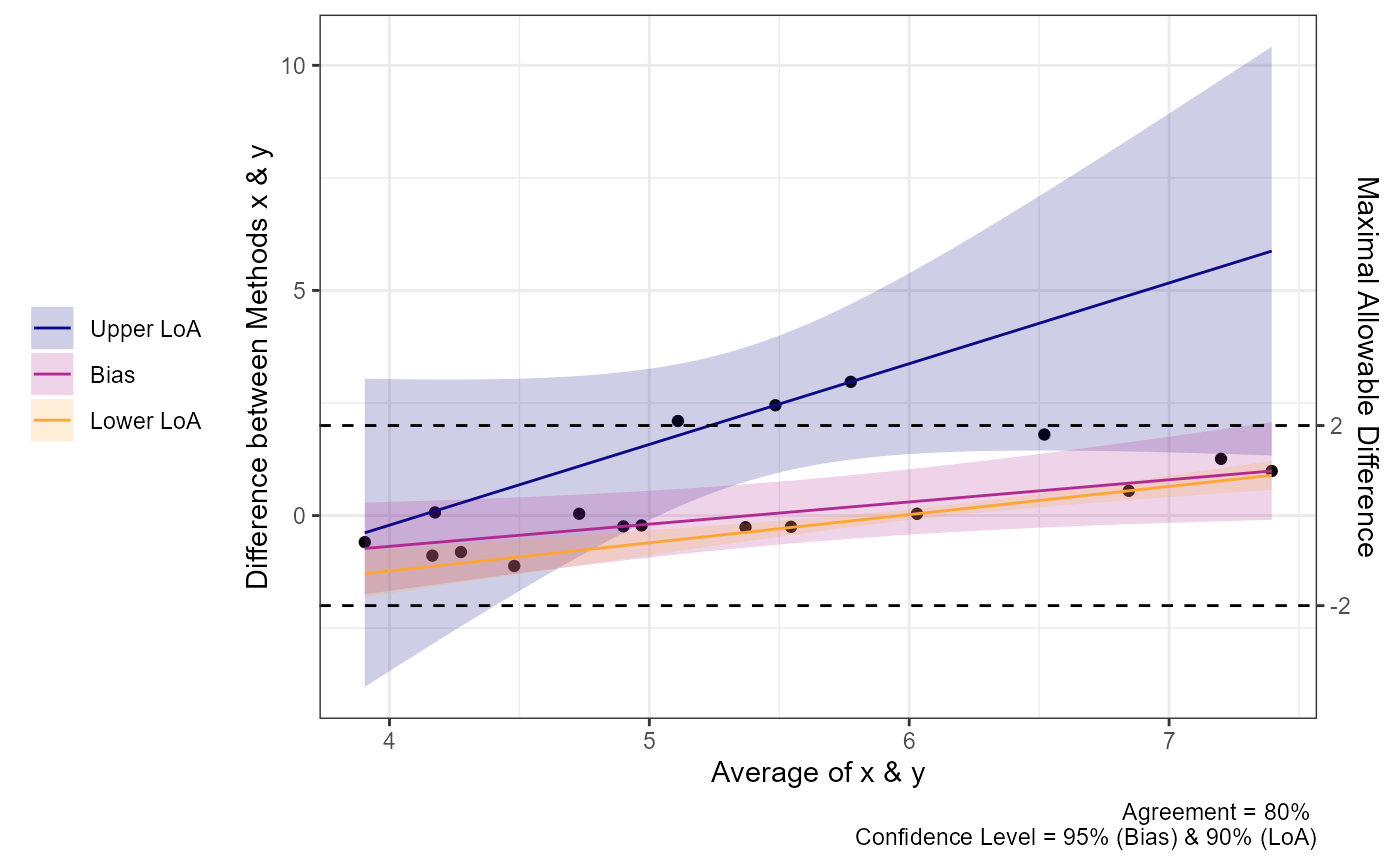
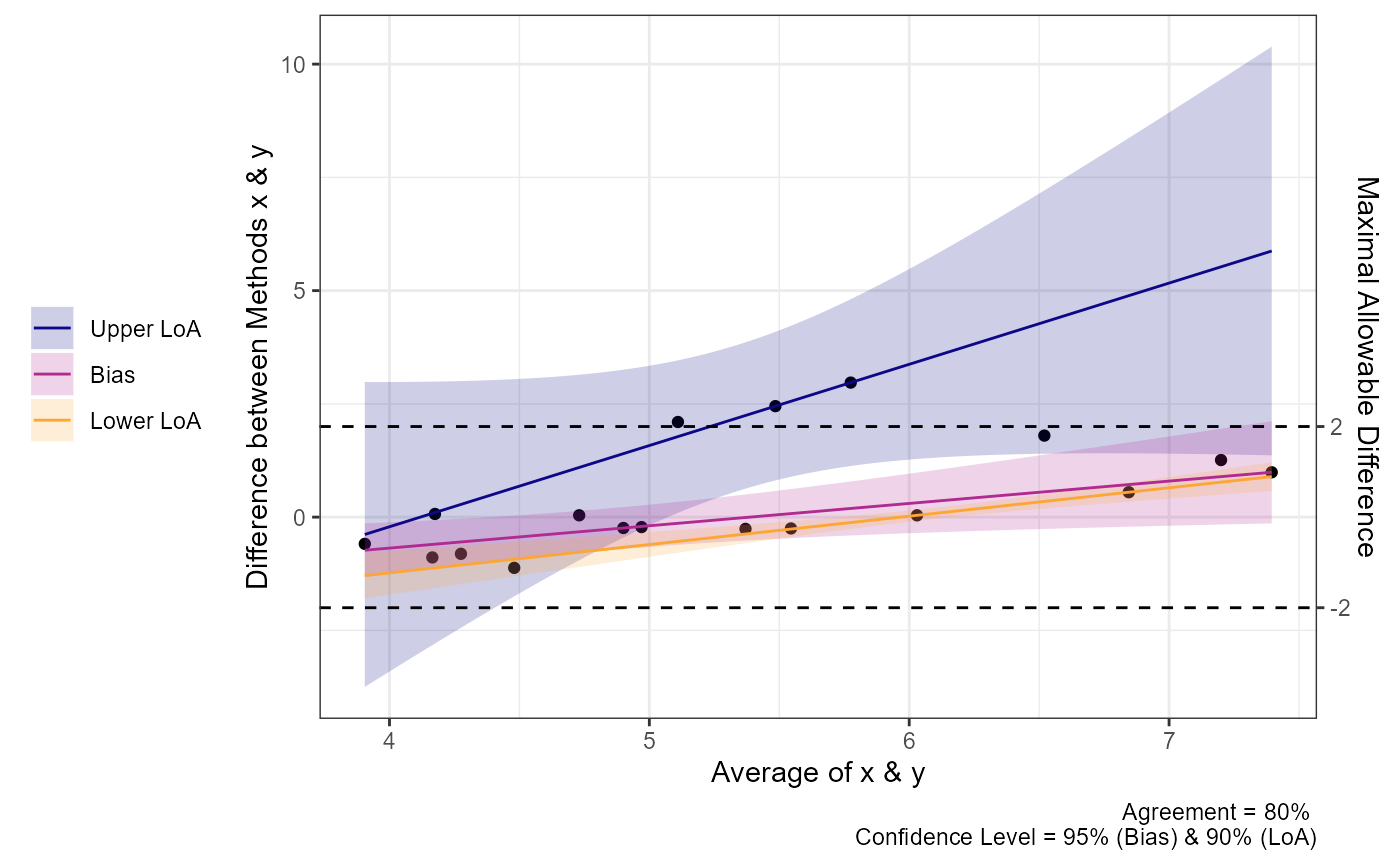
Fix typos in documentation

diff --git a/docs/articles/agreement_analysis.html b/docs/articles/agreement_analysis.html
@@ -650,9 +650,9 @@ are no longer symmetric around the bias estimate.</p>
 <span><span class="co">#&gt; </span></span>
 <span><span class="co">#&gt; ###- Quantile Limits of Agreement (LoA) -###</span></span>
 <span><span class="co">#&gt;           Estimate Lower CI Upper CI CI Level</span></span>
-<span><span class="co">#&gt; Lower LoA    -0.89   -1.361  -0.4194     0.90</span></span>
-<span><span class="co">#&gt; Bias          0.04   -0.620   0.7000     0.95</span></span>
-<span><span class="co">#&gt; Upper LoA     2.45    1.369   3.5314     0.90</span></span>
+<span><span class="co">#&gt; Lower LoA    -0.89  -1.3696  -0.4104     0.90</span></span>
+<span><span class="co">#&gt; Bias          0.04  -0.6122   0.6922     0.95</span></span>
+<span><span class="co">#&gt; Upper LoA     2.45   1.3440   3.5560     0.90</span></span>
 <span></span>
 <span><span class="fu"><a href="https://rdrr.io/r/graphics/plot.default.html" class="external-link">plot</a></span><span class="op">(</span><span class="va">a1</span><span class="op">)</span></span></code></pre></div>
 <p><img src="agreement_analysis_files/figure-html/unnamed-chunk-13-1.png" width="700"></p>
@@ -676,15 +676,15 @@ agreement does not.</p>
 <span><span class="co">#&gt; </span></span>
 <span><span class="co">#&gt; ###- Quantile Limits of Agreement (LoA) -###</span></span>
 <span><span class="co">#&gt;                  Estimate Lower CI Upper CI CI Level</span></span>
-<span><span class="co">#&gt; Lower LoA @ 3.9  -1.28975  -1.7215  -0.8580     0.90</span></span>
-<span><span class="co">#&gt; Lower LoA @ 5.24 -0.45436  -0.6518  -0.2569     0.90</span></span>
-<span><span class="co">#&gt; Lower LoA @ 7.4   0.89417   0.6230   1.1653     0.90</span></span>
-<span><span class="co">#&gt; Bias @ 3.9       -0.73052  -1.3436  -0.1174     0.95</span></span>
-<span><span class="co">#&gt; Bias @ 5.24      -0.07238  -0.6154   0.4706     0.95</span></span>
-<span><span class="co">#&gt; Bias @ 7.4        0.99000  -0.2520   2.2320     0.95</span></span>
-<span><span class="co">#&gt; Upper LoA @ 3.9  -0.38310  -2.9289   2.1627     0.90</span></span>
-<span><span class="co">#&gt; Upper LoA @ 5.24  2.01069   1.0372   2.9842     0.90</span></span>
-<span><span class="co">#&gt; Upper LoA @ 7.4   5.87483   2.2135   9.5362     0.90</span></span>
+<span><span class="co">#&gt; Lower LoA @ 3.9  -1.28975  -1.7352  -0.8443     0.90</span></span>
+<span><span class="co">#&gt; Lower LoA @ 5.24 -0.45436  -0.6427  -0.2660     0.90</span></span>
+<span><span class="co">#&gt; Lower LoA @ 7.4   0.89417   0.5639   1.2245     0.90</span></span>
+<span><span class="co">#&gt; Bias @ 3.9       -0.73052  -1.8345   0.3734     0.95</span></span>
+<span><span class="co">#&gt; Bias @ 5.24      -0.07238  -0.8495   0.7047     0.95</span></span>
+<span><span class="co">#&gt; Bias @ 7.4        0.99000  -0.3054   2.2854     0.95</span></span>
+<span><span class="co">#&gt; Upper LoA @ 3.9  -0.38310  -2.7722   2.0060     0.90</span></span>
+<span><span class="co">#&gt; Upper LoA @ 5.24  2.01069   0.7716   3.2497     0.90</span></span>
+<span><span class="co">#&gt; Upper LoA @ 7.4   5.87483   2.3488   9.4008     0.90</span></span>
 <span></span>
 <span><span class="fu"><a href="https://rdrr.io/r/graphics/plot.default.html" class="external-link">plot</a></span><span class="op">(</span><span class="va">a1</span><span class="op">)</span></span></code></pre></div>
 <p><img src="agreement_analysis_files/figure-html/unnamed-chunk-14-1.png" width="700"></p>

diff --git a/docs/index.html b/docs/index.html
@@ -5,14 +5,14 @@
 <meta charset="utf-8">
 <meta http-equiv="X-UA-Compatible" content="IE=edge">
 <meta name="viewport" content="width=device-width, initial-scale=1.0">
-<title>The SimplyAgre R package • SimplyAgree</title>
+<title>The SimplyAgree R package • SimplyAgree</title>
 <!-- jquery --><script src="https://cdnjs.cloudflare.com/ajax/libs/jquery/3.4.1/jquery.min.js" integrity="sha256-CSXorXvZcTkaix6Yvo6HppcZGetbYMGWSFlBw8HfCJo=" crossorigin="anonymous"></script><!-- Bootstrap --><link rel="stylesheet" href="https://cdnjs.cloudflare.com/ajax/libs/twitter-bootstrap/3.4.1/css/bootstrap.min.css" integrity="sha256-bZLfwXAP04zRMK2BjiO8iu9pf4FbLqX6zitd+tIvLhE=" crossorigin="anonymous">
 <script src="https://cdnjs.cloudflare.com/ajax/libs/twitter-bootstrap/3.4.1/js/bootstrap.min.js" integrity="sha256-nuL8/2cJ5NDSSwnKD8VqreErSWHtnEP9E7AySL+1ev4=" crossorigin="anonymous"></script><!-- bootstrap-toc --><link rel="stylesheet" href="bootstrap-toc.css">
 <script src="bootstrap-toc.js"></script><!-- Font Awesome icons --><link rel="stylesheet" href="https://cdnjs.cloudflare.com/ajax/libs/font-awesome/5.12.1/css/all.min.css" integrity="sha256-mmgLkCYLUQbXn0B1SRqzHar6dCnv9oZFPEC1g1cwlkk=" crossorigin="anonymous">
 <link rel="stylesheet" href="https://cdnjs.cloudflare.com/ajax/libs/font-awesome/5.12.1/css/v4-shims.min.css" integrity="sha256-wZjR52fzng1pJHwx4aV2AO3yyTOXrcDW7jBpJtTwVxw=" crossorigin="anonymous">
 <!-- clipboard.js --><script src="https://cdnjs.cloudflare.com/ajax/libs/clipboard.js/2.0.6/clipboard.min.js" integrity="sha256-inc5kl9MA1hkeYUt+EC3BhlIgyp/2jDIyBLS6k3UxPI=" crossorigin="anonymous"></script><!-- headroom.js --><script src="https://cdnjs.cloudflare.com/ajax/libs/headroom/0.11.0/headroom.min.js" integrity="sha256-AsUX4SJE1+yuDu5+mAVzJbuYNPHj/WroHuZ8Ir/CkE0=" crossorigin="anonymous"></script><script src="https://cdnjs.cloudflare.com/ajax/libs/headroom/0.11.0/jQuery.headroom.min.js" integrity="sha256-ZX/yNShbjqsohH1k95liqY9Gd8uOiE1S4vZc+9KQ1K4=" crossorigin="anonymous"></script><!-- pkgdown --><link href="pkgdown.css" rel="stylesheet">
-<script src="pkgdown.js"></script><meta property="og:title" content="The SimplyAgre R package">
-<meta property="og:description" content="An R pacakge for agreement and reliability estimation">
+<script src="pkgdown.js"></script><meta property="og:title" content="The SimplyAgree R package">
+<meta property="og:description" content="An R package for agreement and reliability estimation">
 <meta property="og:image" content="/images/sticker.png">
 <meta property="og:image:alt" content="SimplyAgree logo">
 <meta name="twitter:card" content="summary_large_image">

diff --git a/docs/reference/agree_np.html b/docs/reference/agree_np.html
@@ -162,9 +162,9 @@
 <span class="r-out co"><span class="r-pr">#&gt;</span> </span>
 <span class="r-out co"><span class="r-pr">#&gt;</span> ###- Quantile Limits of Agreement (LoA) -###</span>
 <span class="r-out co"><span class="r-pr">#&gt;</span>           Estimate Lower CI Upper CI CI Level</span>
-<span class="r-out co"><span class="r-pr">#&gt;</span> Lower LoA    -1.12  -1.4846  -0.7554     0.90</span>
-<span class="r-out co"><span class="r-pr">#&gt;</span> Bias          0.04  -0.5297   0.6097     0.95</span>
-<span class="r-out co"><span class="r-pr">#&gt;</span> Upper LoA     2.97   2.1712   3.7688     0.90</span>
+<span class="r-out co"><span class="r-pr">#&gt;</span> Lower LoA    -1.12  -1.4365  -0.8035     0.90</span>
+<span class="r-out co"><span class="r-pr">#&gt;</span> Bias          0.04  -0.5867   0.6667     0.95</span>
+<span class="r-out co"><span class="r-pr">#&gt;</span> Upper LoA     2.97   2.1250   3.8150     0.90</span>
 <span class="r-out co"><span class="r-pr">#&gt;</span> </span>
 </code></pre></div>
     </div>
